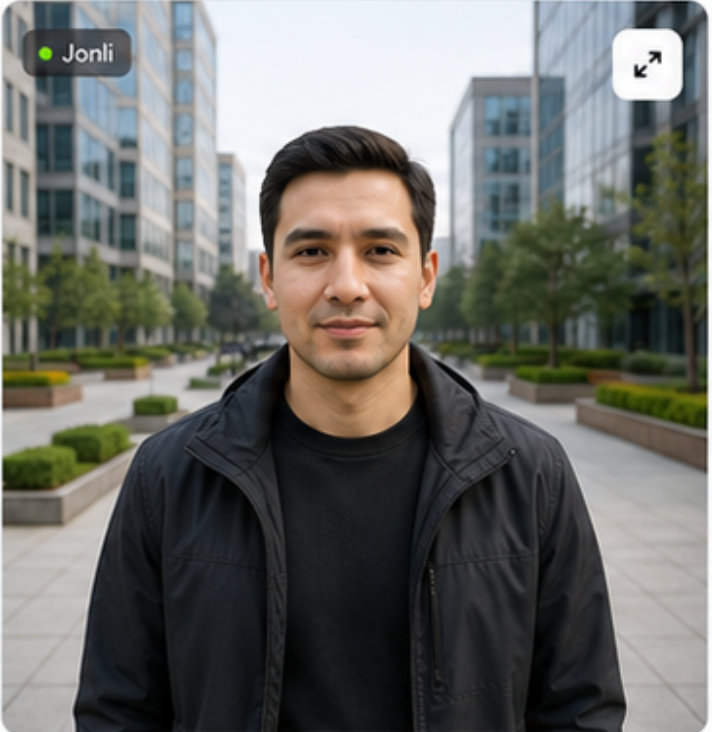
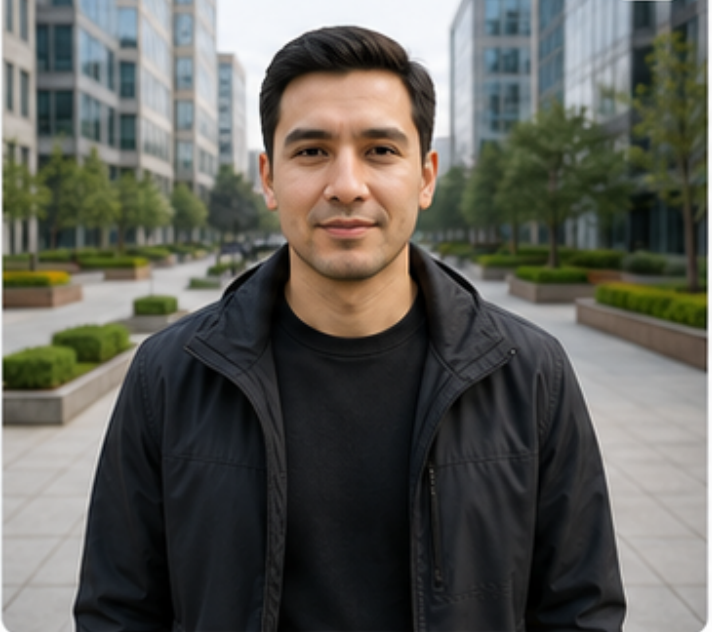
Remove the painted-on UI that made it look AI-made; build real floor navigation
The strongest "this was AI-generated" tell turned out to be baked into the images
themselves: hero_tower.png contained painted callout cards and a painted 3D/cube/expand
button bar, sitting under the page's real HTML callouts with the same texts -- two copies
on screen, one of them pixels no code controls. jonli_kamera.png carried a painted "Jonli"
badge and expand button, kirish_eshigi.png a painted 3D pill. The tower now uses the clean
bino_tower.png render and the other two are cropped.

The asset card's scene controls are real now. The old "3D" button that toggled a class and
toasted is gone; in its place a view switcher that actually swaps the render: exterior and
floor cutaway for buildings, overview and site boundary for land parcels, callouts shown
only on the exterior where they are anchored. In cutaway mode five floor bands highlight on
hover with the floor's name and click through to xonalar.html?qavat=N; the floors page now
reads that parameter and runs its init through qavatTanla, which previously left the
heading on floor 3 while the list switched. Floors 5 and 1 gained sample rooms so arriving
from the cutaway does not land on an empty floor.

From the 236-control classification (145 lying, 59 honest stubs, 32 wireable): a global
[data-lightbox] makes every "enlarged view" genuinely enlarge (gallery, remote cameras); a
global [data-fullscreen] makes six "full screen" buttons call requestFullscreen; the lying
[…]

diff --git a/aktiv.html b/aktiv.html
@@ -41,6 +41,19 @@
 .tahrir-tugma{margin-top:22px}
 
 /* 3D sahna */
+.qavat-zona{
+  position:absolute;left:16%;right:16%;z-index:4;border-radius:10px;cursor:pointer;
+  display:flex;align-items:center;justify-content:flex-end;padding-right:14px;
+  border:1.5px dashed transparent;transition:background var(--tez),border-color var(--tez);
+}
+.qavat-zona span{
+  opacity:0;background:var(--karta);border-radius:10px;padding:7px 13px;
+  font-size:13px;font-weight:700;color:#17191C;box-shadow:var(--soya-pin);
+  transition:opacity var(--tez);pointer-events:none;
+}
+.qavat-zona:hover{background:rgba(180,220,60,.14);border-color:var(--lime)}
+.qavat-zona:hover span,.qavat-zona:focus-visible span{opacity:1}
+
 .sahna{position:relative;border-radius:18px;overflow:hidden;min-height:480px;background:linear-gradient(180deg,#FDFDFC,#F4F5F2)}
 .sahna > img{position:absolute;inset:0;width:100%;height:100%;object-fit:contain;padding:20px 40px 40px}
 .callout{
@@ -198,7 +211,16 @@
       </div>
 
       <div class="sahna">
-        <img id="h-rasm" src="assets/hero_tower.png" alt="Obyektning 3D ko'rinishi">
+        <img id="h-rasm" src="assets/bino_tower.png" alt="Obyektning 3D ko'rinishi">
+        <!-- Qavat navigatsiyasi: "Qavatlar kesimi" rejimida har bir qavat BOSILADI va
+             xonalar.html'da o'sha qavat ochiladi. Zonalar rasm proportsiyasiga bog'langan. -->
+        <div id="qavat-zonalar" hidden>
+          <a class="qavat-zona" style="top:14%;height:13%"  href="xonalar.html?qavat=5"><span>5 — Penthouse</span></a>
+          <a class="qavat-zona" style="top:27%;height:13%"  href="xonalar.html?qavat=4"><span>4 — Ofis qavati</span></a>
+          <a class="qavat-zona" style="top:40%;height:13%"  href="xonalar.html?qavat=3"><span>3 — Ofis qavati</span></a>
+          <a class="qavat-zona" style="top:53%;height:14%"  href="xonalar.html?qavat=2"><span>2 — Savdo qavati</span></a>
+          <a class="qavat-zona" style="top:67%;height:16%"  href="xonalar.html?qavat=1"><span>1 — Kirish va lobby</span></a>
+        </div>
         <div class="callout" style="left:4%;top:9%">
           <span class="doira"><svg class="ic"><use href="#i-energiya"/></svg></span>
           <span><span class="yorliq">Energiya samaradorligi</span><b>A+ sinf</b></span>
@@ -215,9 +237,10 @@
           <span class="doira"><svg class="ic"><use href="#i-belgi-doira"/></svg></span>
           <span><span class="yorliq">Texnik holat</span><b>Yaxshi</b></span>
         </div>
-        <div class="sahna-nazorat">
-          <button class="sahna-tugma lime" id="s-3d" aria-pressed="true">3D</button>
-          <button class="sahna-tugma" data-toast="Model ko'rinishi almashtirildi" aria-label="Model rejimi"><svg class="ic"><use href="#i-kvadrat3d"/></svg></button>
+        <div class="sahna-nazorat" id="sahna-korinishlar" role="tablist" aria-label="Ko'rinish rejimi">
+          <!-- tugmalar JS bilan obyekt turiga qarab quriladi -->
+        </div>
+        <div class="sahna-nazorat" style="left:auto;right:18px;transform:none">
           <button class="sahna-tugma" id="s-toliq" aria-label="To'liq ekran"><svg class="ic"><use href="#i-kengay"/></svg></button>
         </div>
       </div>
@@ -245,11 +268,11 @@
             </div>
           </div>
           <div class="galereya" id="galereya">
-            <button class="gal-karta" data-toast="Ofis qavat 5 — kattalashtirilgan ko'rinish"><img src="assets/gal_ofis.png" alt="Ofis qavat 5"><b>Ofis qavat 5</b><span>1200 m²</span></button>
-            <button class="gal-karta" data-toast="Konferensiya zali — kattalashtirilgan ko'rinish"><img src="assets/gal_konf.png" alt="Konferensiya zali"><b>Konferensiya zali</b><span>150 m²</span></button>
-            <button class="gal-karta" data-toast="Yer maydoni — kattalashtirilgan ko'rinish"><img src="assets/gal_yer.png" alt="Yer maydoni"><b>Yer maydoni</b><span>4 250 m²</span></button>
-            <button class="gal-karta" data-toast="Yaqin atrofdagi uy — kattalashtirilgan ko'rinish"><img src="assets/gal_uy.png" alt="Yaqin atrofdagi uy"><b>Yaqin atrofdagi uy</b><span>850 m</span></button>
-            <button class="gal-karta" data-toast="Zaxira generator — kattalashtirilgan ko'rinish"><img src="assets/gal_gen.png" alt="Zaxira generator"><b>Zaxira generator</b><span>250 kVA</span></button>
+            <button class="gal-karta" data-lightbox="Ofis qavat 5"><img src="assets/gal_ofis.png" alt="Ofis qavat 5"><b>Ofis qavat 5</b><span>1200 m²</span></button>
+            <button class="gal-karta" data-lightbox="Konferensiya zali"><img src="assets/gal_konf.png" alt="Konferensiya zali"><b>Konferensiya zali</b><span>150 m²</span></button>
+            <button class="gal-karta" data-lightbox="Yer maydoni"><img src="assets/gal_yer.png" alt="Yer maydoni"><b>Yer maydoni</b><span>4 250 m²</span></button>
+            <button class="gal-karta" data-lightbox="Yaqin atrofdagi uy"><img src="assets/gal_uy.png" alt="Yaqin atrofdagi uy"><b>Yaqin atrofdagi uy</b><span>850 m</span></button>
+            <button class="gal-karta" data-lightbox="Zaxira generator"><img src="assets/gal_gen.png" alt="Zaxira generator"><b>Zaxira generator</b><span>250 kVA</span></button>
           </div>
           <div class="tavsif" style="margin-top:22px">
             <h3>Tavsif</h3>
@@ -365,8 +388,17 @@
 document.addEventListener("DOMContentLoaded", ()=>{
 
 /* Obyekt ma'lumotlari (?id=) */
+/* Sahna ko'rinishlari: tashqi render har obyektning o'z rasmi; "Qavatlar" kesimi
+   binolar uchun (bino_qavatlar.png — qavatma-qavat interyerli kesim), "Hudud"
+   yer maydonlari uchun (bino_9.png — uchastkaning tepadan ko'rinishi). */
+const KORINISH_TOPLAM = {
+  bino:  [["tashqi","Tashqi ko'rinish", null],
+          ["qavat","Qavatlar kesimi","assets/bino_qavatlar.png"]],
+  yer:   [["tashqi","Umumiy ko'rinish", null],
+          ["hudud","Hudud chegarasi","assets/bino_9.png"]]
+};
 const MALUMOT = {
-  "green-tower":{nom:"Green Tower",tur:"Biznes markazi",holat:"Faol",rasm:"assets/hero_tower.png",
+  "green-tower":{nom:"Green Tower",tur:"Biznes markazi",holat:"Faol",rasm:"assets/bino_tower.png",
     manzil:"Toshkent shahri, Shayxontohur tumani,<br>Amir Temur ko'chasi, 88",
     maydon:"18 500 m²",yer:"4 250 m²",qavat:"12",yil:"2022",
     tavsif:"Green Tower – zamonaviy biznes markazi bo'lib, 12 qavatdan iborat. Bino ofis maydonlari, konferensiya zallari, yerosti avtoturargohi va to'liq infratuzilma bilan ta'minlangan.",
@@ -507,11 +539,38 @@ hm.querySelectorAll("button").forEach(b=>b.addEventListener("click", e=>{
 }));
 
 /* Sahna tugmalari */
-document.getElementById("s-3d").addEventListener("click", function(){
-  const yoq = this.classList.toggle("lime");
-  this.setAttribute("aria-pressed", String(yoq));
-  AUGA.toast(yoq ? "3D rejim yoqildi" : "2D rejim", "i-kvadrat3d");
-});
+/* Ko'rinish almashtirgich — tugma RASMNI HAQIQATAN almashtiradi.
+   Avval "3D" tugmasi faqat sinf va toast almashtirardi — sahnada hech narsa
+   o'zgarmasdi. Kalautlar faqat tashqi ko'rinishda ma'noga ega (ular bino
+   fasadiga bog'langan), boshqa rejimlarda yashiriladi. */
+(function(){
+  const yerMi = /yer/i.test(o.tur);
+  const toplam = KORINISH_TOPLAM[yerMi ? "yer" : "bino"];
+  const quti = document.getElementById("sahna-korinishlar");
+  const rasm = document.getElementById("h-rasm");
+  const kalautlar = document.querySelectorAll(".sahna .callout");
+  let joriy = "tashqi";
+  function korsat(kalit){
+    joriy = kalit;
+    const [,nomi,manba] = toplam.find(k=>k[0]===kalit);
+    rasm.src = manba || o.rasm;
+    rasm.alt = `${o.nom} — ${nomi.toLowerCase()}`;
+    kalautlar.forEach(c=>{ c.style.display = kalit==="tashqi" ? "" : "none"; });
+    // Qavat zonalari faqat kesim rejimida — va faqat binolarda
+    const zonalar = document.getElementById("qavat-zonalar");
+    if (zonalar) zonalar.hidden = kalit !== "qavat";
+    quti.querySelectorAll(".sahna-tugma").forEach(b=>{
+      const faol = b.dataset.k===kalit;
+      b.classList.toggle("lime", faol);
+      b.setAttribute("aria-selected", String(faol));
+    });
+  }
+  quti.innerHTML = toplam.map(([kalit,nomi])=>
+    `<button class="sahna-tugma" role="tab" data-k="${kalit}" aria-selected="false">${nomi}</button>`).join("");
+  quti.querySelectorAll(".sahna-tugma").forEach(b=>
+    b.addEventListener("click", ()=>korsat(b.dataset.k)));
+  korsat("tashqi");
+})();
 document.getElementById("s-toliq").addEventListener("click", ()=>{
   const s = document.querySelector(".sahna");
   if (document.fullscreenElement) document.exitFullscreen();

diff --git a/xonalar.html b/xonalar.html
@@ -164,8 +164,8 @@
           <h3>Binoning 3D ko'rinishi</h3>
           <div class="rejim" role="group">
             <button class="aktiv" id="rj-3d">3D</button>
-            <button id="rj-2d">2D</button>
-            <button data-toast="To'liq ekran" aria-label="To'liq ekran"><svg class="ic" style="width:16px;height:16px"><use href="#i-kengay"/></svg></button>
+            <button id="rj-2d">Sxema</button>
+            <button data-fullscreen=".qavat-sahna" aria-label="To'liq ekran"><svg class="ic" style="width:16px;height:16px"><use href="#i-kengay"/></svg></button>
           </div>
         </div>
         <div class="qavat-sahna">
@@ -201,7 +201,9 @@ document.addEventListener("DOMContentLoaded", ()=>{
 const QAVATLAR = [
   ["5","Penthouse"],["4","Ofis qavati"],["3","Ofis qavati"],["2","Savdo qavati"],["1","Kirish va lobby"],["-1","Texnik qavat"]
 ];
-let faolQavat = "3";
+// aktiv.html'dagi bino kesimidan tanlangan qavat shu parametr bilan keladi
+const urlQavat = new URLSearchParams(location.search).get("qavat");
+let faolQavat = (urlQavat && ["5","4","3","2","1","-1"].includes(urlQavat)) ? urlQavat : "3";
 
 function qavatChiz(){
   document.getElementById("qavatlar").innerHTML = QAVATLAR.map(q=>`
@@ -233,6 +235,12 @@ document.querySelectorAll(".qavat-yorliq").forEach(y=>{
 });
 
 const XONALAR = [
+  {nom:"Penthouse ofis 501", qavat:"5", maydon:"210 m²", rasm:"assets/xona_ofis.png", tur:"Ofis", sigim:"18 kishi", holat:"Band",
+   egasi:"Green Capital MChJ", shartnoma:"NPR-2024-0601", muddat:"31-dek, 2025",
+   jihozlar:[["Stol","18 ta"],["Kreslo","18 ta"],["Kompyuter","16 ta"],["Konditsioner","3 ta"]]},
+  {nom:"Qabulxona va lobby", qavat:"1", maydon:"140 m²", rasm:"assets/xona_konf.png", tur:"Umumiy", sigim:"—", holat:"Faol",
+   egasi:"AUGA ma'muriyati", shartnoma:"—", muddat:"—",
+   jihozlar:[["Qabul stoli","2 ta"],["Kutish o'rindiqlari","14 ta"],["Turniket","3 ta"]]},
   {nom:"Ofis 301", qavat:"3", maydon:"120 m²", rasm:"assets/xona_ofis.png", tur:"Ofis", sigim:"12 kishi", holat:"Band",
    egasi:"Tech Solutions LLC", shartnoma:"NPR-2024-0566", muddat:"26-may, 2025",
    jihozlar:[["Stol","12 ta"],["Kreslo","12 ta"],["Kompyuter","12 ta"],["Printer","2 ta"],["Konditsioner","2 ta"]]},
@@ -324,7 +332,7 @@ function panelChiz(){
     document.querySelectorAll(".xona-k").forEach(k=>k.classList.remove("faol"));
   });
 }
-qavatChiz();
+qavatTanla(faolQavat);
 xonalarChiz(); panelChiz();
 
 document.getElementById("xona-keyingi").addEventListener("click", ()=>{
@@ -340,7 +348,7 @@ document.getElementById("rj-3d").addEventListener("click", function(){
 document.getElementById("rj-2d").addEventListener("click", function(){
   this.classList.add("aktiv"); document.getElementById("rj-3d").classList.remove("aktiv");
   document.getElementById("qavat-rasm").classList.add("sxematik");
-  AUGA.toast("2D reja ko'rinishi");
+  AUGA.toast("Sxematik ko'rinish yoqildi");
 });
 
 /* Hisobot */

diff --git a/masofaviy-korik.html b/masofaviy-korik.html
@@ -150,10 +150,10 @@
       <!-- Kameralar -->
       <div class="karta">
         <div class="kamera-grid">
-          <button class="mk-kamera" data-toast="101 Mehmonxona kamerasi kattalashtirildi"><img src="assets/mk_101.png" alt="101 Mehmonxona"><span class="nom">101 | Mehmonxona</span><span class="live">LIVE</span></button>
-          <button class="mk-kamera" data-toast="102 Yotoqxona kamerasi kattalashtirildi"><img src="assets/mk_102.png" alt="102 Yotoqxona"><span class="nom">102 | Yotoqxona</span><span class="live">LIVE</span></button>
-          <button class="mk-kamera" data-toast="103 Oshxona kamerasi kattalashtirildi"><img src="assets/mk_103.png" alt="103 Oshxona"><span class="nom">103 | Oshxona</span><span class="live">LIVE</span></button>
-          <button class="mk-kamera" data-toast="104 Koridor kamerasi kattalashtirildi"><img src="assets/mk_104.png" alt="104 Koridor"><span class="nom">104 | Koridor</span><span class="live">LIVE</span></button>
+          <button class="mk-kamera" data-lightbox="101 Mehmonxona — jonli tasvir"><img src="assets/mk_101.png" alt="101 Mehmonxona"><span class="nom">101 | Mehmonxona</span><span class="live">LIVE</span></button>
+          <button class="mk-kamera" data-lightbox="102 Yotoqxona — jonli tasvir"><img src="assets/mk_102.png" alt="102 Yotoqxona"><span class="nom">102 | Yotoqxona</span><span class="live">LIVE</span></button>
+          <button class="mk-kamera" data-lightbox="103 Oshxona — jonli tasvir"><img src="assets/mk_103.png" alt="103 Oshxona"><span class="nom">103 | Oshxona</span><span class="live">LIVE</span></button>
+          <button class="mk-kamera" data-lightbox="104 Koridor — jonli tasvir"><img src="assets/mk_104.png" alt="104 Koridor"><span class="nom">104 | Koridor</span><span class="live">LIVE</span></button>
         </div>
       </div>
 
@@ -168,7 +168,7 @@
         </div>
         <div class="reja-rasm">
           <img src="assets/mk_reja.png" alt="1-qavat rejasi — kameralar, eshiklar va ruxsat etilgan yo'l">
-          <button class="kengay" data-toast="Reja to'liq ekranda" aria-label="To'liq ekran"><svg class="ic"><use href="#i-kengay"/></svg></button>
+          <button class="kengay" data-fullscreen=".reja-rasm" aria-label="To'liq ekran"><svg class="ic"><use href="#i-kengay"/></svg></button>
         </div>
         <div class="reja-past">
           <span><svg class="ic"><use href="#i-kamera"/></svg>Kamera</span>

diff --git a/yer-maydonlari.html b/yer-maydonlari.html
@@ -154,10 +154,10 @@
             <button data-toast="Joylashuvni markazlash" aria-label="Markazlash"><svg class="ic"><use href="#i-navigatsiya"/></svg></button>
           </div>
           <div class="rejim" role="group">
-            <button id="a-2d">2D</button>
-            <button id="a-3d" class="aktiv">3D</button>
+            <button id="a-2d">Sxema</button>
+            <button id="a-3d" class="aktiv">Foto</button>
           </div>
-          <button class="kengay" data-toast="To'liq ekran" aria-label="To'liq ekran"><svg class="ic"><use href="#i-kengay"/></svg></button>
+          <button class="kengay" data-fullscreen=".aero" aria-label="To'liq ekran"><svg class="ic"><use href="#i-kengay"/></svg></button>
         </div>
 
         <div class="tezkor-statlar">
@@ -327,8 +327,8 @@ document.querySelectorAll(".tur-chip").forEach(c=>{
   });
 });
 
-document.getElementById("a-2d").addEventListener("click", function(){ this.classList.add("aktiv"); document.getElementById("a-3d").classList.remove("aktiv"); document.getElementById("aero-rasm").classList.add("sxematik"); AUGA.toast("2D xarita rejimi"); });
-document.getElementById("a-3d").addEventListener("click", function(){ this.classList.add("aktiv"); document.getElementById("a-2d").classList.remove("aktiv"); document.getElementById("aero-rasm").classList.remove("sxematik"); AUGA.toast("3D xarita rejimi"); });
+document.getElementById("a-2d").addEventListener("click", function(){ this.classList.add("aktiv"); document.getElementById("a-3d").classList.remove("aktiv"); document.getElementById("aero-rasm").classList.add("sxematik"); AUGA.toast("Sxematik ko'rinish"); });
+document.getElementById("a-3d").addEventListener("click", function(){ this.classList.add("aktiv"); document.getElementById("a-2d").classList.remove("aktiv"); document.getElementById("aero-rasm").classList.remove("sxematik"); AUGA.toast("Aerofoto ko'rinishi"); });
 document.querySelector(".up-yop").addEventListener("click", ()=>{
   document.querySelector(".ym-grid aside").style.display = "none";
   document.querySelectorAll(".uch-band").forEach(r=>r.classList.remove("faol"));

diff --git a/auga.js b/auga.js
@@ -463,6 +463,30 @@ document.addEventListener("DOMContentLoaded", ()=>{
   st.textContent = qoidalar.join("");
   document.head.appendChild(st);
 
+  // Laytboks — [data-lightbox] ko'targan har qanday element ichidagi rasmni
+  // modal oynada to'liq ochadi. "Kattalashtirilgan ko'rinish" endi haqiqatan
+  // kattalashtiradi. data-toast bilan bitta elementda ishlatilmaydi.
+  document.body.addEventListener("click", e=>{
+    const lb = e.target.closest("[data-lightbox]");
+    if (!lb) return;
+    const im = lb.querySelector("img") || (lb.tagName === "IMG" ? lb : null);
+    if (!im) return;
+    const sarlavha = lb.dataset.lightbox || im.alt || "";
+    AUGA.modal(sarlavha,
+      `<img src="${im.src}" alt="${im.alt || ""}" style="width:100%;border-radius:14px;display:block">`,
+      { okMatn:"Yopish" });
+  });
+
+  // To'liq ekran — [data-fullscreen="selektor"] tugmasi ko'rsatilgan blokni
+  // haqiqiy fullscreen'ga chiqaradi (aktiv.html'dagi ishlaydigan naqsh umumlashtirildi).
+  document.body.addEventListener("click", e=>{
+    const fs = e.target.closest("[data-fullscreen]");
+    if (!fs) return;
+    if (document.fullscreenElement){ document.exitFullscreen(); return; }
+    const maqsad = document.querySelector(fs.dataset.fullscreen);
+    if (maqsad && maqsad.requestFullscreen) maqsad.requestFullscreen();
+  });
+
   // data-toast tugmalar
   document.body.addEventListener("click", e=>{
     const t = e.target.closest("[data-toast]");

diff --git a/servis.html b/servis.html
@@ -197,9 +197,7 @@
           <h3>Obyekt xaritasi</h3>
           <span class="qavat-chip">3-qavat</span>
           <div class="rejim">
-            <button class="aktiv" id="s3d">3D</button>
-            <button id="s2d">2D</button>
-            <button data-toast="To'liq ekran" aria-label="To'liq ekran"><svg class="ic" style="width:15px;height:15px"><use href="#i-kengay"/></svg></button>
+            <button data-fullscreen=".sv-xarita" aria-label="To'liq ekran"><svg class="ic" style="width:15px;height:15px"><use href="#i-kengay"/></svg></button>
           </div>
         </div>
         <div class="sv-xarita">
@@ -407,8 +405,8 @@ hm.querySelectorAll("button").forEach(b=>b.addEventListener("click", e=>{
 }));
 
 /* 3D/2D */
-document.getElementById("s3d").addEventListener("click", function(){ this.classList.add("aktiv"); document.getElementById("s2d").classList.remove("aktiv"); AUGA.toast("3D reja"); });
-document.getElementById("s2d").addEventListener("click", function(){ this.classList.add("aktiv"); document.getElementById("s3d").classList.remove("aktiv"); AUGA.toast("2D reja"); });
+document.getElementById("s2d").classList.remove("aktiv"); AUGA.toast("3D reja"); });
+document.getElementById("s3d").classList.remove("aktiv"); AUGA.toast("2D reja"); });
 
 /* Tahrirlash */
 document.getElementById("sv-tahrir").addEventListener("click", ()=>{

diff --git a/jonli-tashrif.html b/jonli-tashrif.html
@@ -171,7 +171,7 @@
         <div class="kamera-orash">
           <img src="assets/jonli_kamera.png" alt="Jonli kamera tasviri — tashrif buyuruvchi">
           <span class="jonli"><span class="nuqta"></span>Jonli</span>
-          <button class="kengay" data-toast="Kamera to'liq ekranda" aria-label="To'liq ekran"><svg class="ic"><use href="#i-kengay"/></svg></button>
+          <button class="kengay" data-fullscreen=".kamera-orash" aria-label="To'liq ekran"><svg class="ic"><use href="#i-kengay"/></svg></button>
         </div>
         <div class="nuqta-karta">
           <span class="tile"><svg class="ic"><use href="#i-qulf"/></svg></span>
@@ -184,8 +184,8 @@
         <h3>Kirish nuqtasi (3D)</h3>
         <div class="eshik-orash">
           <img src="assets/kirish_eshigi.png" alt="Bosh kirish eshigi — Face ID qurilmasi bilan">
-          <button class="chip3d" data-toast="3D aylantirish rejimi">3D</button>
-          <button class="kengay" data-toast="To'liq ekran" aria-label="To'liq ekran"><svg class="ic"><use href="#i-kengay"/></svg></button>
+          
+          <button class="kengay" data-fullscreen=".eshik-orash" aria-label="To'liq ekran"><svg class="ic"><use href="#i-kengay"/></svg></button>
         </div>
       </div>
 

diff --git a/shartnomalar.html b/shartnomalar.html
@@ -220,7 +220,7 @@
           <div class="sh-maydon"><svg class="ic"><use href="#i-kalendar"/></svg><span><span class="yorliq">Boshlanish sanasi</span><b id="t-boshi">01.01.2024</b></span></div>
           <div class="sh-rasm">
             <img id="t-rasm" src="assets/bino_tower.png" alt="Shartnoma obyekti">
-            <button class="chip3d" data-toast="3D aylantirish">3D</button>
+            
             <a class="kengay" id="t-havola" href="aktiv.html?id=green-tower" aria-label="Obyektni ochish"><svg class="ic"><use href="#i-kengay"/></svg></a>
           </div>
           <div class="sh-maydon"><svg class="ic"><use href="#i-foyd"/></svg><span><span class="yorliq">Ijara oluvchi (Tenant)</span><b id="t-tenant">Tech Solutions LLC <span style="color:#22B14C">✓</span></b></span></div>

diff --git a/xaritalar.html b/xaritalar.html
@@ -91,8 +91,8 @@
           <span class="t-yorliq">Barcha hududlar</span><svg class="ic"><use href="#i-past"/></svg>
         </button>
         <div class="rejim" role="group" aria-label="Xarita rejimi">
-          <button id="r-2d" class="aktiv">2D</button>
-          <button id="r-3d">3D</button>
+          <button id="r-2d" class="aktiv">Xarita</button>
+          <button id="r-3d">Sputnik</button>
         </div>
       </div>
 

diff --git a/aktivlar.html b/aktivlar.html
@@ -272,7 +272,6 @@ function inspektorChiz(o){
     <div data-panel="umumiy">
       <div class="insp-rasm">
         <img src="${o.rasm}" alt="${o.nom} 3D ko'rinishi">
-        <button class="insp-3d" data-toast="3D aylantirish rejimi">3D</button>
         <a class="insp-kengay" href="aktiv.html?id=${o.id}" aria-label="To'liq ochish"><svg class="ic"><use href="#i-kengay"/></svg></a>
       </div>
       <div class="tafsilot">
